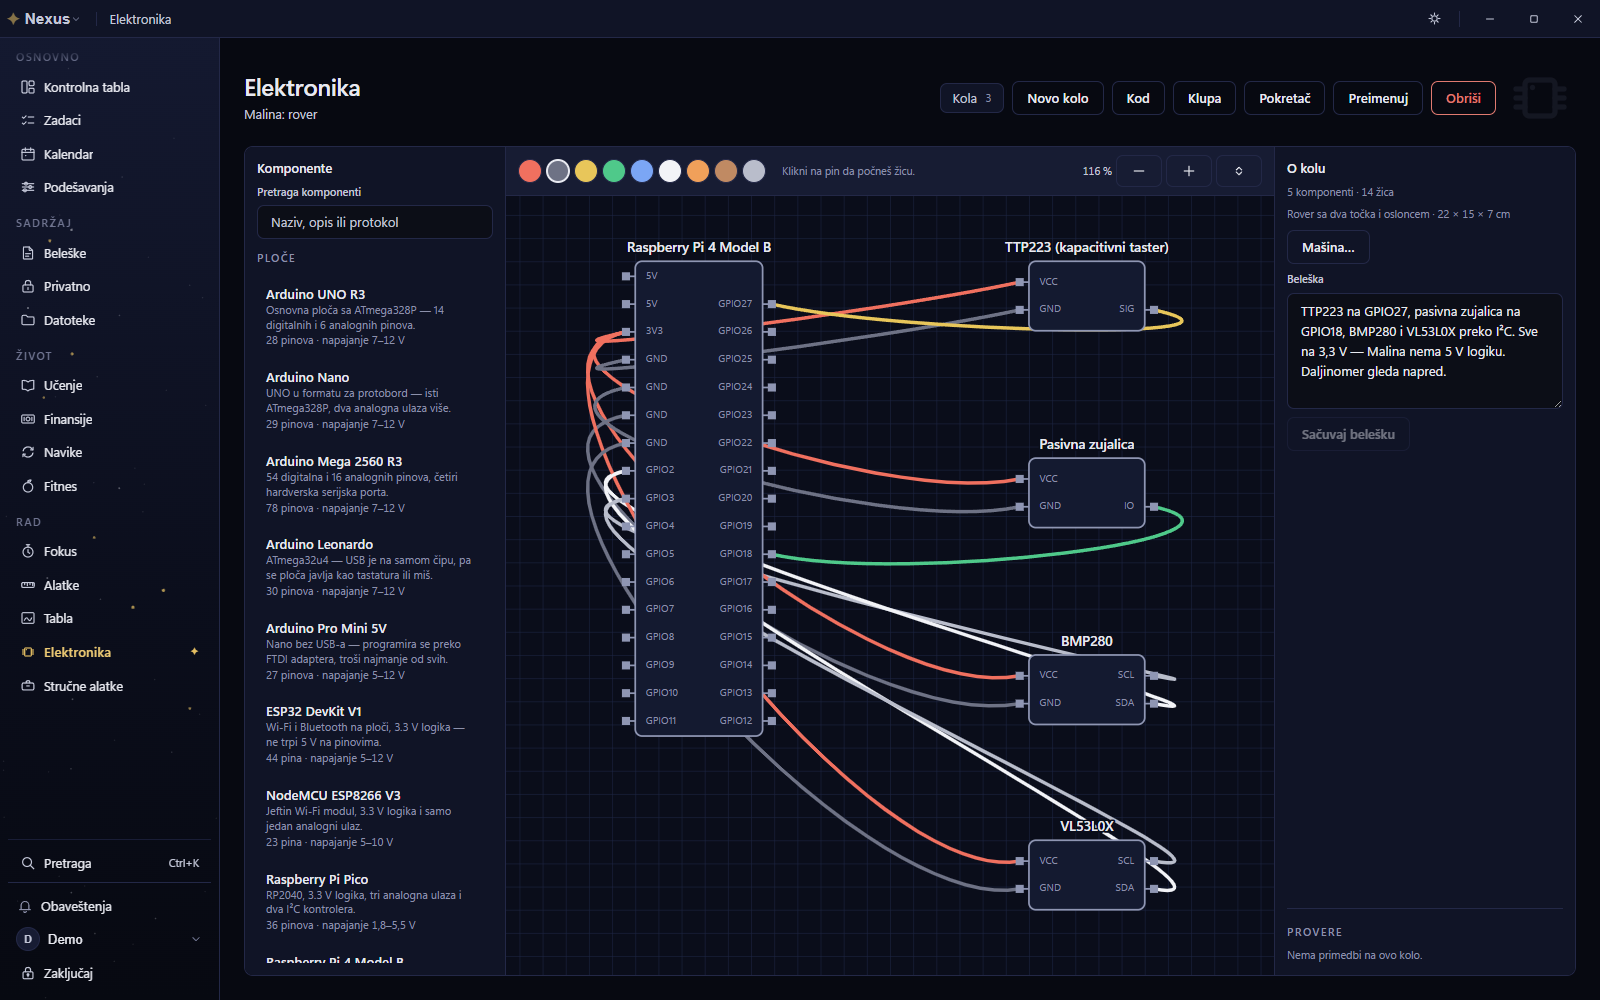
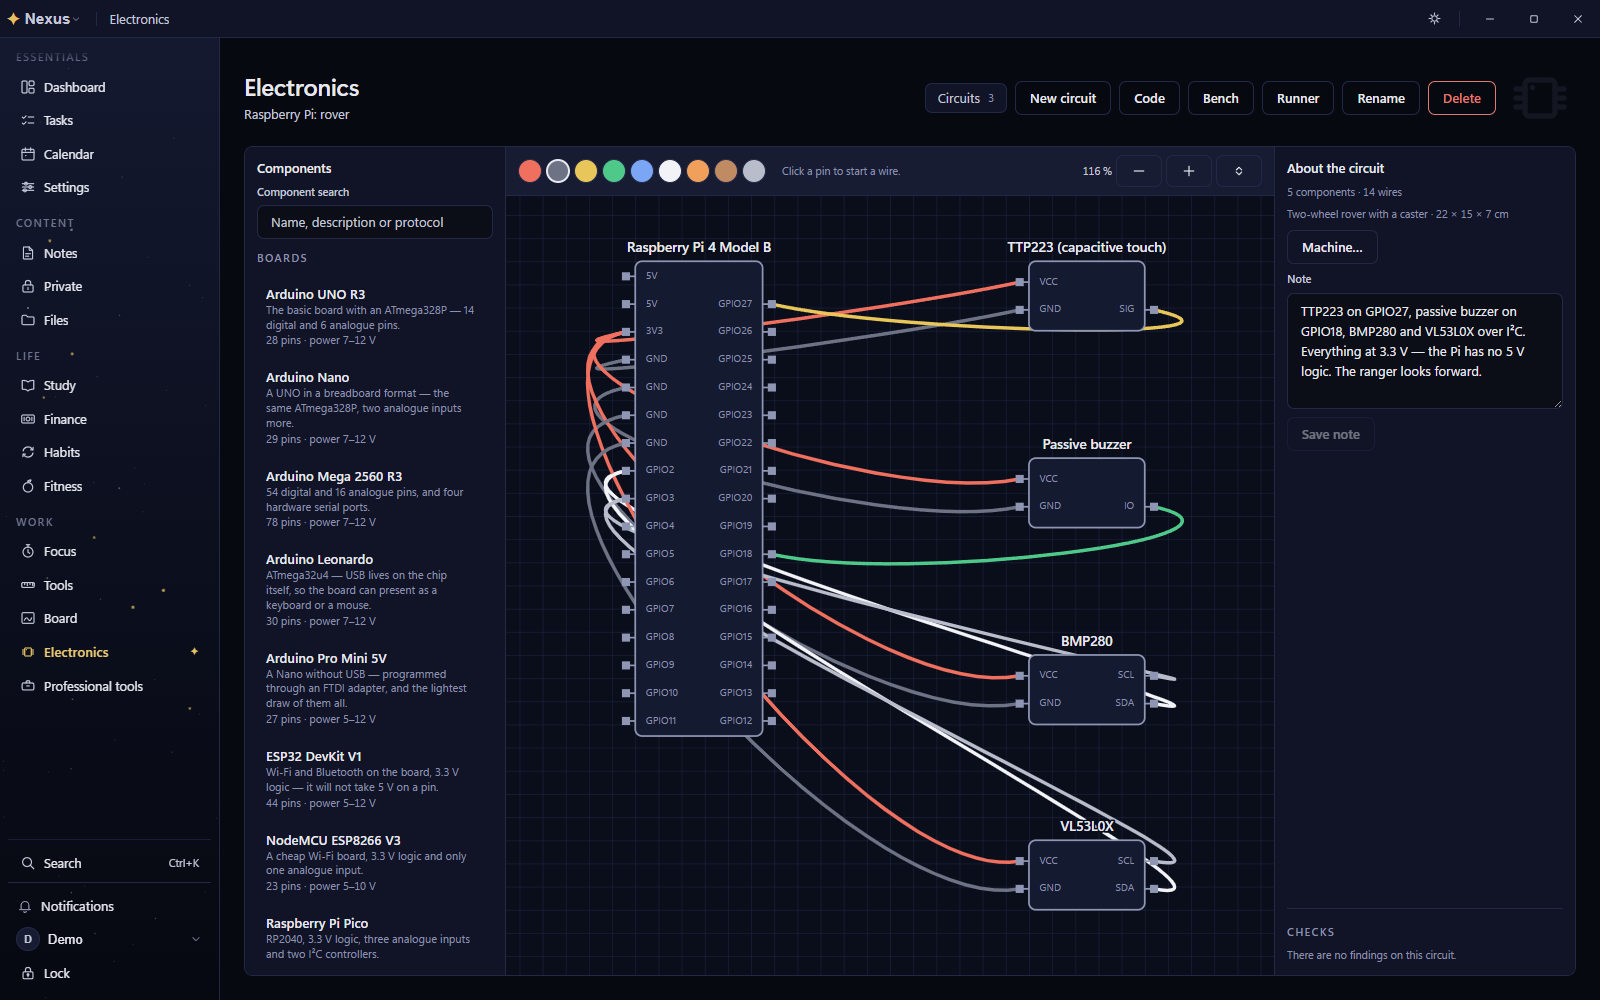
docs: English screenshots for the README and the website
The five images are re-shot in English with --locale=en, in the themes they
had. The electronics caption counts what the rover carries: three sensors and
a buzzer.

diff --git a/site/index.html b/site/index.html
@@ -167,9 +167,9 @@
             </figure>
             <figure>
                 <div class="plate">
-                    <img src="images/electronics.png" width="1600" height="1000" alt="Electronics workbench: a Raspberry Pi wired to four sensors, in the dark theme" loading="lazy">
+                    <img src="images/electronics.png" width="1600" height="1000" alt="Electronics workbench: a Raspberry Pi wired to three sensors and a buzzer, in the dark theme" loading="lazy">
                 </div>
-                <figcaption>The electronics bench: a Raspberry Pi wired to four sensors.</figcaption>
+                <figcaption>The electronics bench: a Raspberry Pi wired to three sensors and a buzzer.</figcaption>
             </figure>
         </div>
     </section>

diff --git a/docs/log/2026-10.md b/docs/log/2026-10.md
@@ -51,12 +51,21 @@ other seeders do, which closes §4.1 item 13. `applyLocale` also rewrites
 The temporary merge/fetch scripts at the repository root were removed before
 hand-off, as their own headers said they would be.
 
+**The screenshots are English now.** The harness takes `--locale=en`; until
+then every automated run was pinned to Serbian whatever the machine spoke. The
+README's and the website's five images were re-shot with it, and looking at
+them found the two things no test had: one Serbian payee in the English ledger,
+„Taksi/prevoz", which has no diacritic for the diacritic test to catch, and an
+electronics bench that opened on a different circuit, because the list sorts
+by name and the English names sorted differently. The English names now keep
+the Serbian order, and a test pins it.
+
 **Verified on 2026-10-04**, on a Windows host, with every gate CI runs:
 `pnpm install --frozen-lockfile`, `pnpm build`, typecheck across all 13
-packages, lint (no errors; the two pre-existing hook warnings), `test:wall` 77 of
-77, all 26 static gates, and every suite — core 6 157 tests over 128 files,
-desktop 2 433 over 131, db 2 304 over 69, ui 106, web 62 and the five sync packages.
-The first full run failed three cases of `apps/desktop`'s `demo/study.test.ts`
+packages, lint (no errors; the two pre-existing hook warnings), `test:wall` 77
+of 77, all 26 static gates, and every suite — core 6 157 tests over 128 files,
+desktop 2 434 over 131, db 2 304 over 69, ui 106, web 62 and the five sync
+packages. The first full run failed three cases of `apps/desktop`'s `demo/study.test.ts`
 on Vitest's 5 000 ms default while turbo ran the core suite beside it; alone,
 the same cases take about 0.6 s each. Each opens a real encrypted database and
 runs every migration, the cost `packages/db` met first and answered with a 20 s
